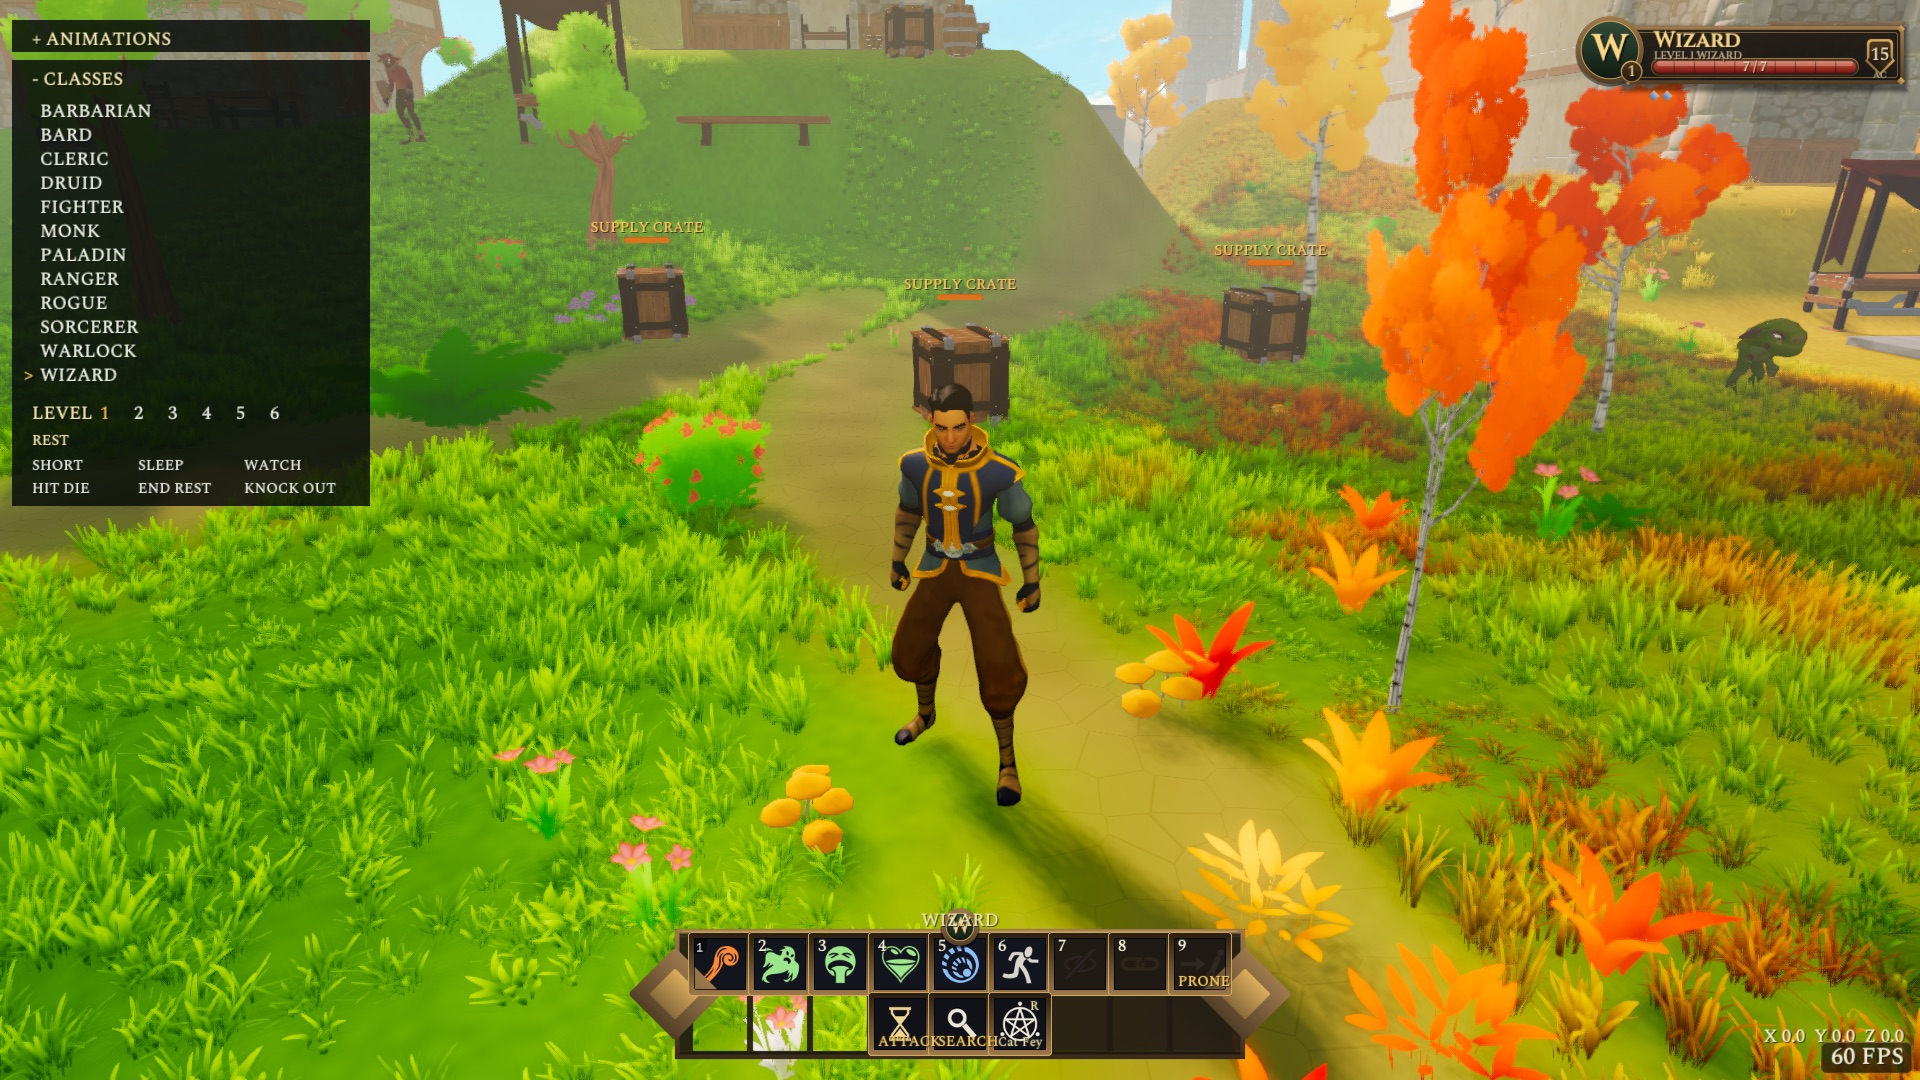
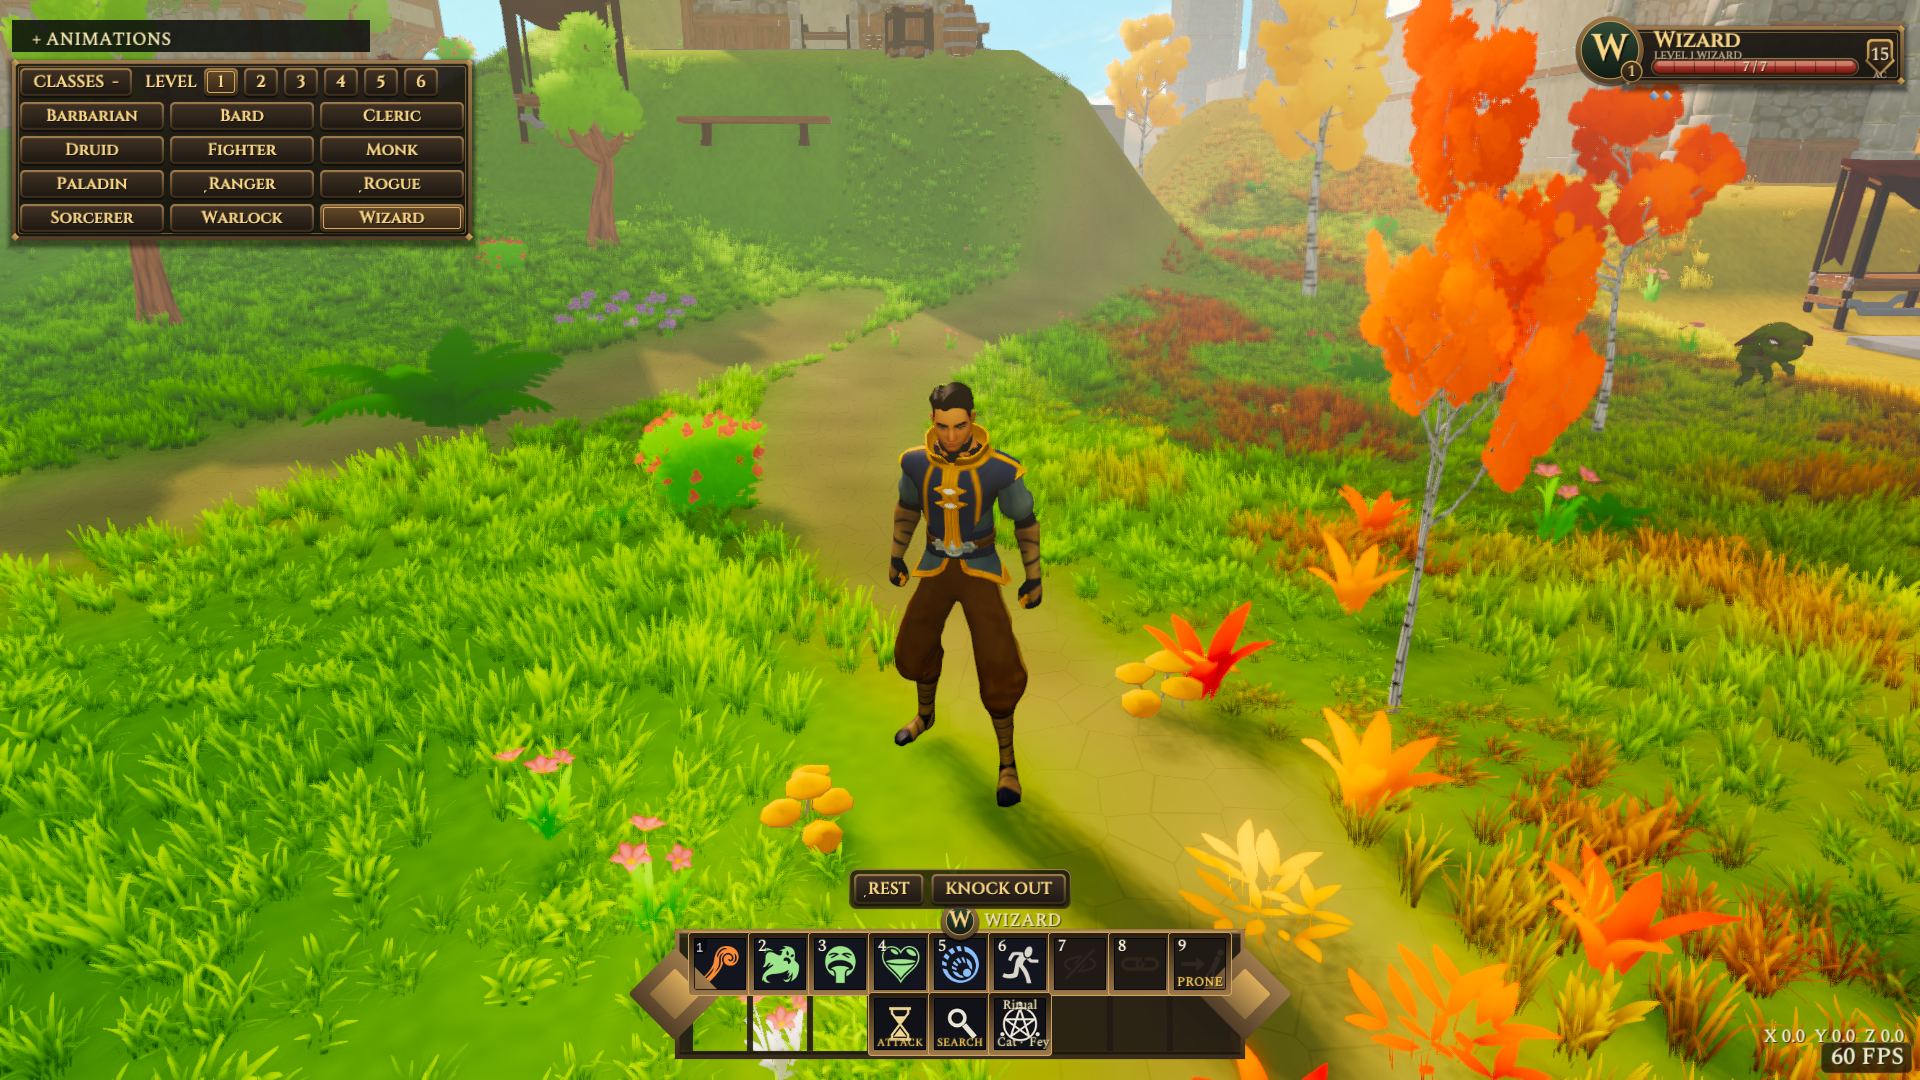
Everglade Experimental's HUD captures after the side bar and the CLASSES picker (#13092)

diff --git a/docs/verification/everglade-fantasy-hud-2026-11-09/README.md b/docs/verification/everglade-fantasy-hud-2026-11-09/README.md
@@ -5,5 +5,5 @@ after the FANTASY HUD, the side bar and menus, and line-of-sight plates.
 
 - `everglade2`: the FANTASY world HUD (portrait, map, framed bar, side bar).
 - `character-creator`: the phone-first studio (card and tabbed sheet).
-- `everglade-experimental`: the FANTASY portrait, bar tray and plates.
+- `everglade-experimental`: the FANTASY portrait, bar tray and plates; the side bar (REST, KNOCK OUT) and the touch-sized CLASSES picker (#13092).
 - `5e-lab`: a SCIFI realm, unchanged except for the battle's own timing.
